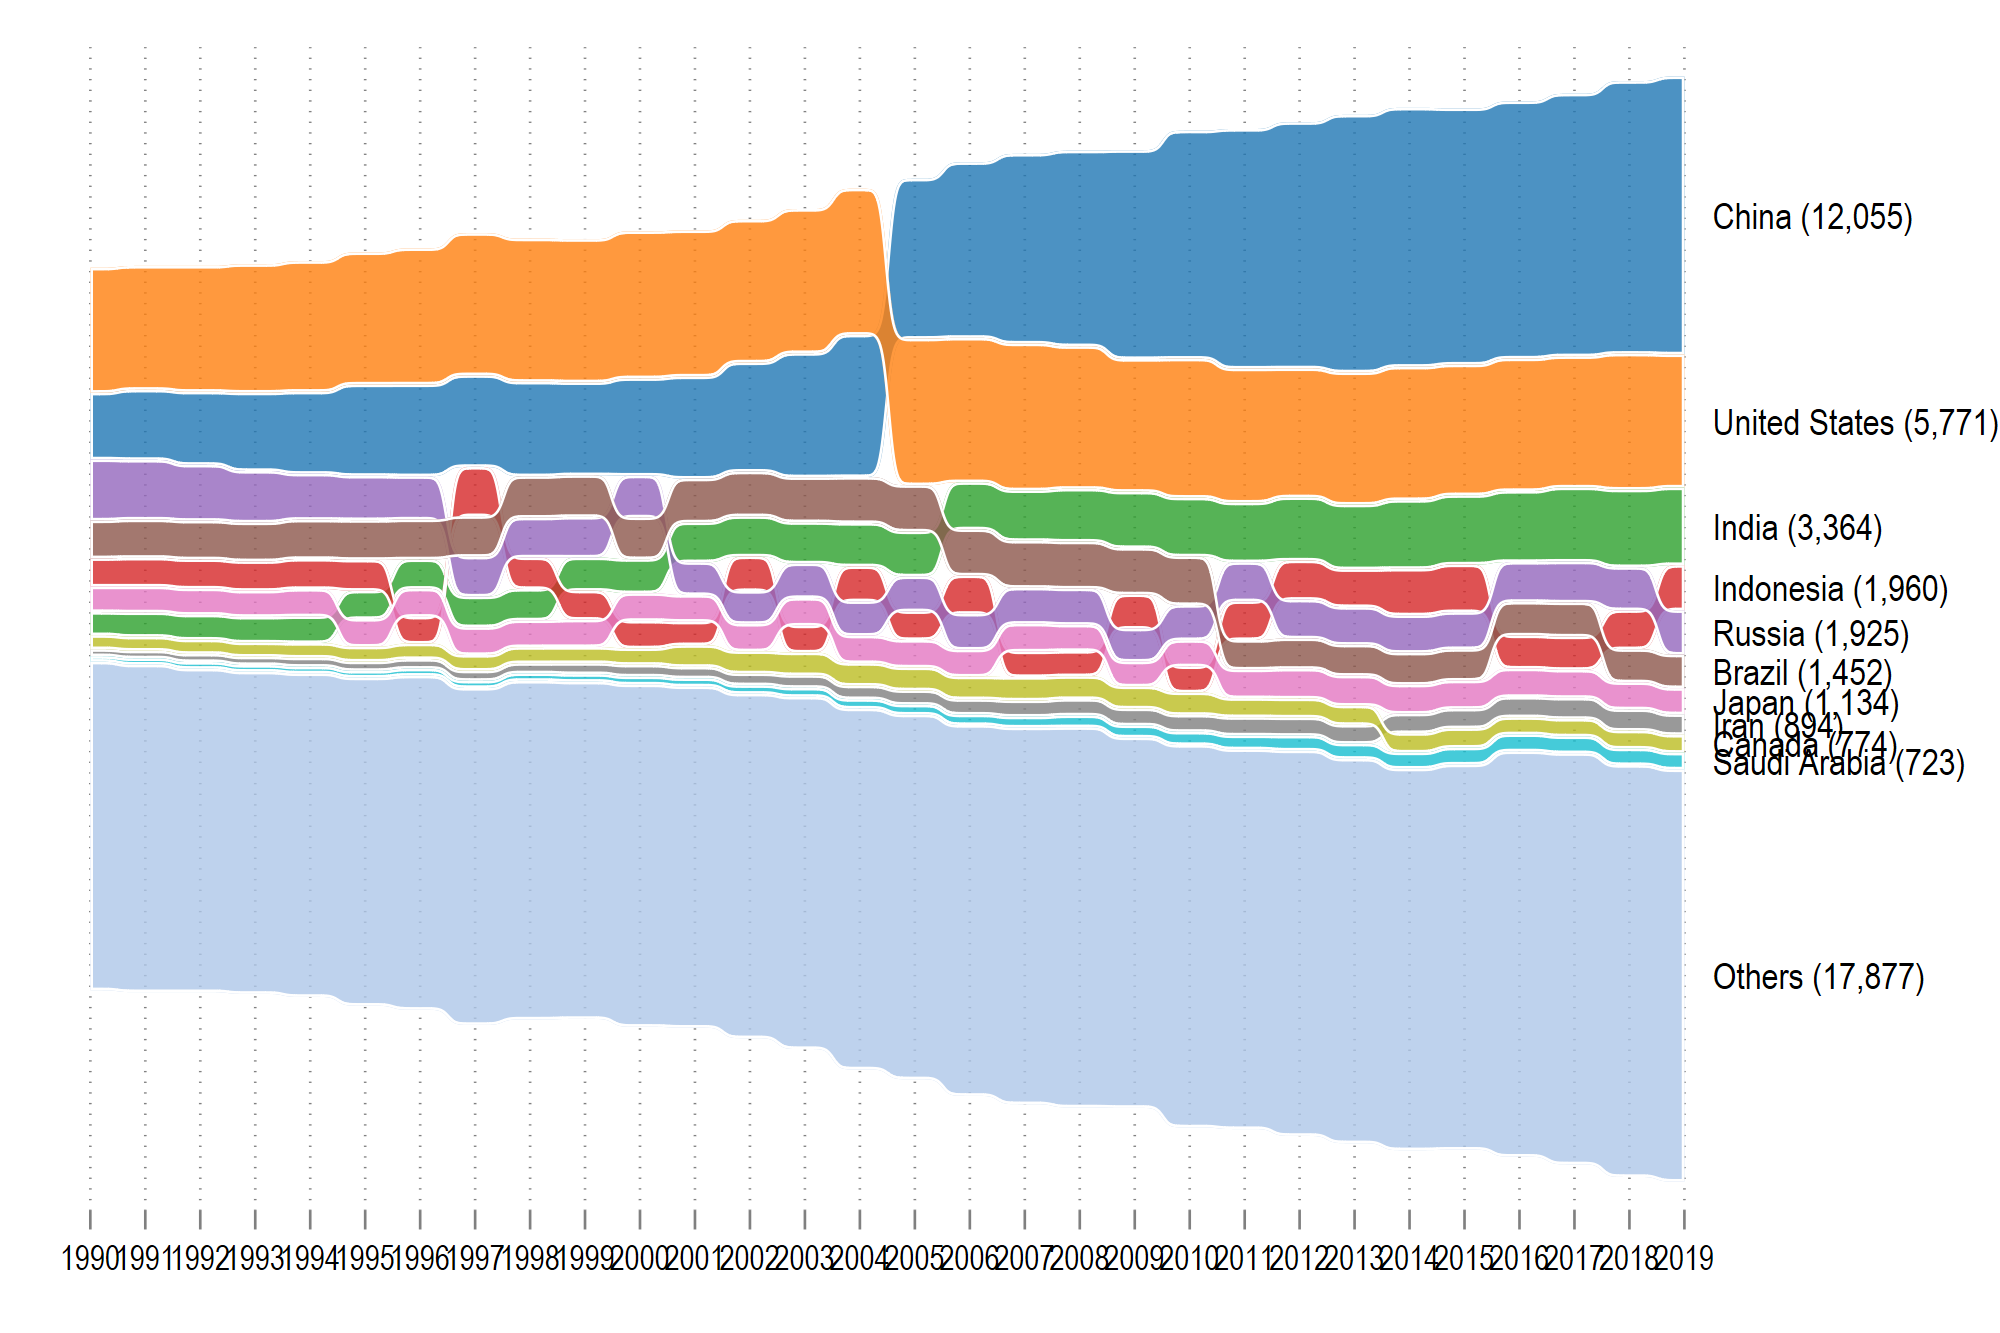
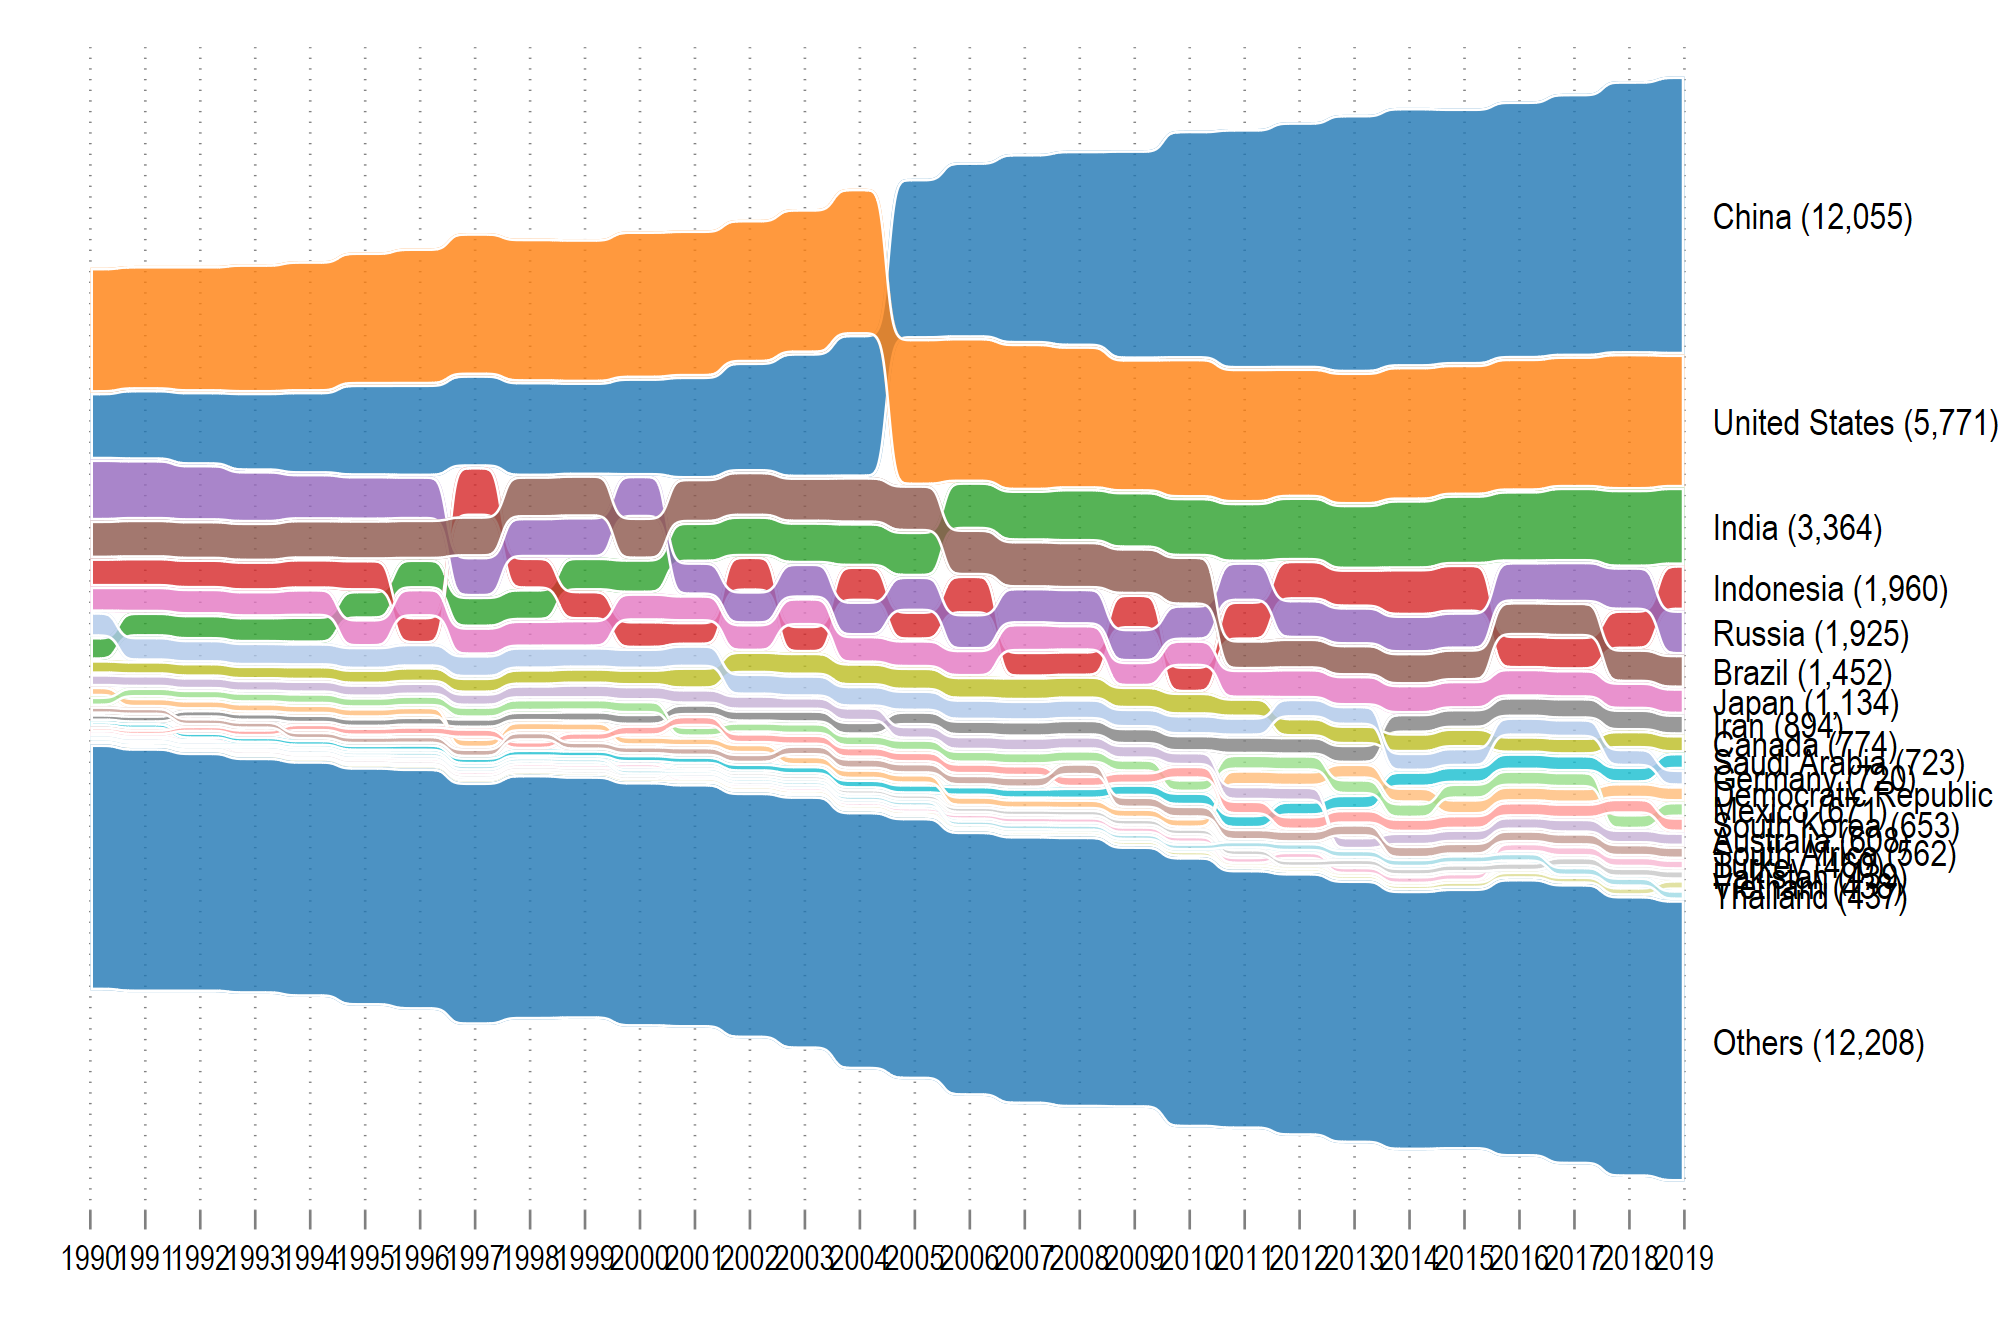
v1.1

Changed region(s): [[0.031, 0.4614, 1.0, 0.892]]

diff --git a/README.md b/README.md
@@ -7,7 +7,7 @@
 
 ---
 
-# bumparea v1.0
+# bumparea v1.1
 
 ## Installation
 
@@ -19,7 +19,7 @@ SSC (**v1.0**)::
 ssc install bumparea, replace
 ```
 
-GitHub (**v1.0**):
+GitHub (**v1.1**):
 
 ```
 net install bumparea, from("https://raw.githubusercontent.com/asjadnaqvi/stata-bumparea/main/installation/") replace
@@ -54,7 +54,7 @@ graph set window fontface "Arial Narrow"
 
 ## Syntax
 
-The syntax for **v1.0** is as follows:
+The syntax for **v1.1** is as follows:
 
 ```
 
@@ -98,7 +98,7 @@ bumparea total_ghg year, by(country)
 
 
 ```
-bumparea total_ghg year, by(country) ///
+bumparea total_ghg year, by(country) top(10) ///
 	xsize(2) ysize(1) 
 ```
 
@@ -107,7 +107,7 @@ bumparea total_ghg year, by(country) ///
 
 ### percent
 ```
-bumparea total_ghg year, by(country) ///
+bumparea total_ghg year, by(country) top(10) ///
 	percent labs(2) xsize(2) ysize(1) 	
 ```
 
@@ -116,14 +116,14 @@ bumparea total_ghg year, by(country) ///
 ### dropother
 
 ```
-bumparea total_ghg year, by(country) ///
+bumparea total_ghg year, by(country) top(10) ///
 	dropother labs(2) xsize(2) ysize(1) 
 ```
 
 <img src="/figures/bumparea4.png" height="400">
 
 ```
-bumparea total_ghg year, by(country) ///
+bumparea total_ghg year, by(country) top(10) ///
 	dropother percent labs(2) xsize(2) ysize(1) 	
 ```
 
@@ -139,14 +139,14 @@ bumparea total_ghg year, by(country) ///
 ### smooth
 
 ```
-bumparea total_ghg year, by(country) ///
+bumparea total_ghg year, by(country) top(10) ///
 	smooth(1) dropother labs(2) xsize(2) ysize(1) 	
 ```
 
 <img src="/figures/bumparea7.png" height="400">
 
 ```
-bumparea total_ghg year, by(country) ///
+bumparea total_ghg year, by(country) top(10) ///
 	smooth(8) dropother labs(2) xsize(2) ysize(1) 	
 ```
 
@@ -155,14 +155,14 @@ bumparea total_ghg year, by(country) ///
 ### recenter
 
 ```
-bumparea total_ghg year, by(country) ///
+bumparea total_ghg year, by(country) top(10) ///
 	recenter(top) dropother labs(2) xsize(2) ysize(1) 	
 ```
 
 <img src="/figures/bumparea9.png" height="400">
 
 ```
-bumparea total_ghg year, by(country) ///
+bumparea total_ghg year, by(country) top(10) ///
 	recenter(bot) dropother labs(2) xsize(2) ysize(1) 		
 ```
 
@@ -173,7 +173,7 @@ bumparea total_ghg year, by(country) ///
 ### alpha and lines
 
 ```
-bumparea total_ghg year, by(country) ///
+bumparea total_ghg year, by(country) top(10) ///
 	lc(black) lw(0.03) dropother labs(2) xsize(2) ysize(1) 	
 ```
 
@@ -182,28 +182,28 @@ bumparea total_ghg year, by(country) ///
 ### colors
 
 ```
-bumparea total_ghg year, by(country) ///
+bumparea total_ghg year, by(country) top(10) ///
 	lc(black) lw(0.03) palette(reds, reverse) dropother labs(2) xsize(2) ysize(1) 	
 ```
 
 <img src="/figures/bumparea12.png" height="400">
 
 ```
-bumparea total_ghg year, by(country) ///
+bumparea total_ghg year, by(country) top(10) ///
 	lc(black) lw(0.03) palette(viridis) dropother labs(2) xsize(2) ysize(1) 
 ```
 
 <img src="/figures/bumparea13.png" height="400">
 
 ```
-bumparea total_ghg year, by(country) ///
+bumparea total_ghg year, by(country) top(10) ///
 	lc(black) lw(0.03) palette(CET C6) alpha(100) dropother labs(2) xsize(2) ysize(1) 			
 ```
 
 <img src="/figures/bumparea14.png" height="400">
 
 ```	
-bumparea total_ghg year, by(country) ///
+bumparea total_ghg year, by(country) top(10) ///
 	lc(black) lw(0.03) palette(CET C6) alpha(50) dropother labs(2) xsize(2) ysize(1) 		
 ```
 
@@ -246,6 +246,11 @@ Please open an [issue](https://github.com/asjadnaqvi/stata-bumparea/issues) to r
 
 
 ## Change log
+
+**v1.1 (28 May 2023)**
+- Fixed `if` and `in` conditions that were not passing correctly.
+- Added checks for duplicates.
+- Minor code cleanups, updates to defaults, and help file.
 
 **v1.0 (10 Apr 2023)**
 - Public release.
